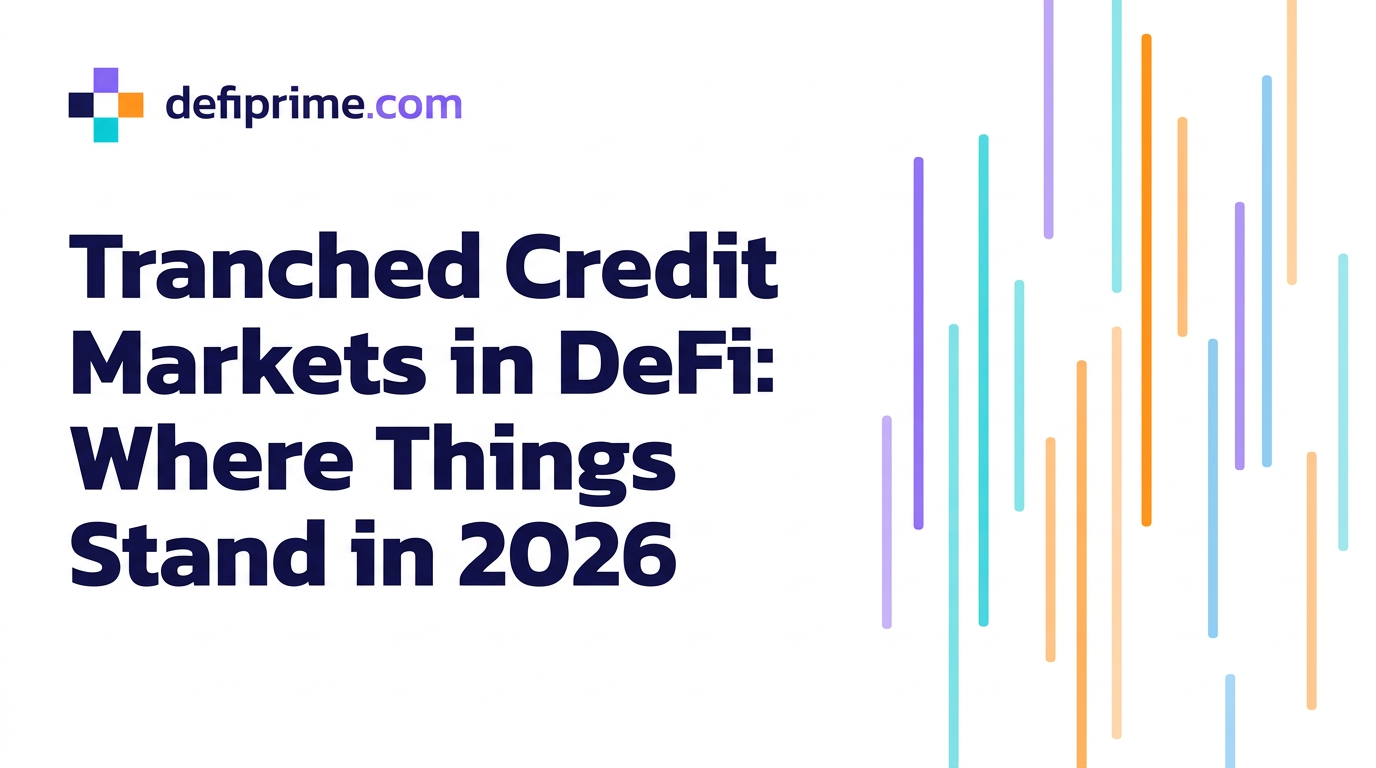
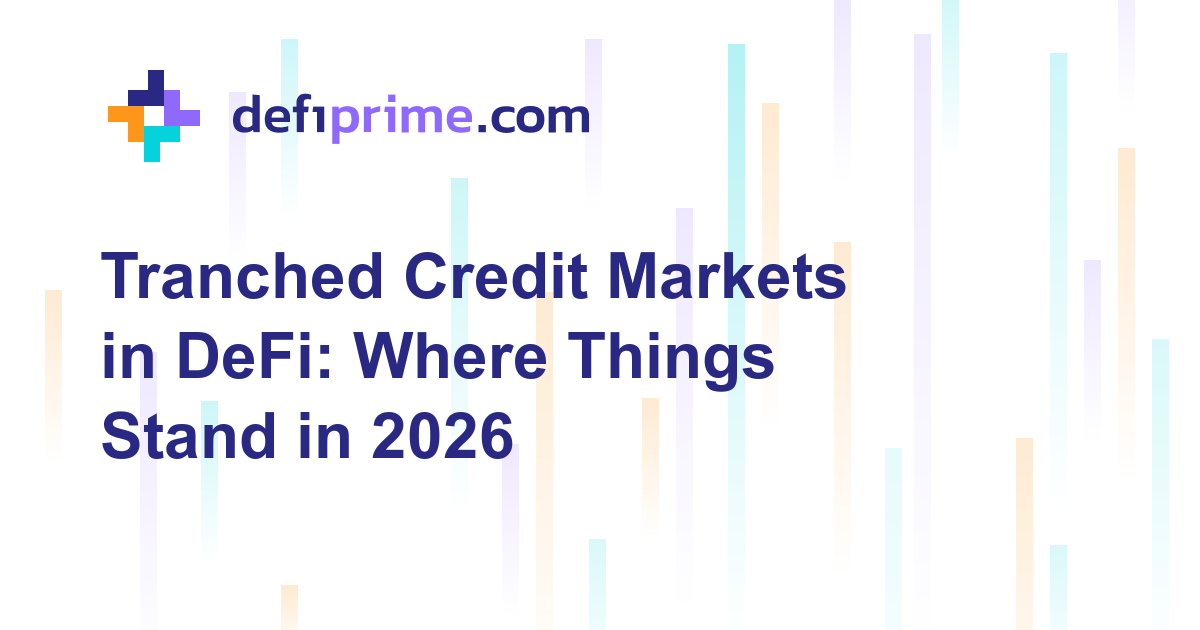
Regenerate OGP images for last 10 blog posts using standardized template
All images now use consistent positioning (+100+240), Arial Bold font,
and 1200x630 dimensions from ogp-template.png. Updated frontmatter
for posts with non-standard image filenames.

diff --git a/collections/_posts/2026-02-24-canton-vs-evm.md b/collections/_posts/2026-02-24-canton-vs-evm.md
@@ -7,7 +7,7 @@ h1title: "Canton Network vs. EVM-Compatible Blockchains: A Technical Reckoning"
 pagetitle: "Canton Network vs. EVM-Compatible Blockchains: A Technical Reckoning"
 metadescription: "A deep technical comparison of Canton Network and EVM-compatible blockchains. Explore execution models, privacy guarantees, trust assumptions, scalability, and where each platform excels for institutional and DeFi use cases."
 category: blog
-featured-image: /images/blog/cantonevm.png
+featured-image: /images/blog/canton-vs-evm-ogp.png
 intro: "The blockchain landscape has split more sharply than most architects acknowledge. The EVM ecosystem and Canton answer different questions—comparing them as if they were racing toward the same finish line misses the point."
 author: Defiprime
 tags: ["DeFi Guides", "Infrastructure"]

diff --git a/collections/_posts/2026-02-25-aave-mess-decentralized-governance.md b/collections/_posts/2026-02-25-aave-mess-decentralized-governance.md
@@ -7,7 +7,7 @@ h1title: "The Aave Mess: Who Actually Owns a Decentralized Protocol?"
 pagetitle: "The Aave Mess: Who Actually Owns a Decentralized Protocol?"
 metadescription: "Aave's governance crisis—swap fees, brand transfer, BGD's exit—exposes deeper questions about who really controls a decentralized protocol and whether DeFi governance is broken."
 category: blog
-featured-image: /images/blog/aave2025drama.png
+featured-image: /images/blog/aave-governance-ogp.png
 intro: "Aave had a rough winter. What started as a fight over swap fees turned into a full-blown war between the people who built the protocol and the people who theoretically own it."
 author: sawinyh
 tags: ["DeFi Guides", "Governance", "DAO"]

diff --git a/collections/_posts/2026-02-27-stablecoins-320-billion.md b/collections/_posts/2026-02-27-stablecoins-320-billion.md
@@ -7,7 +7,7 @@ h1title: "Stablecoins Hit $320 Billion. Here's What the Data Actually Shows."
 pagetitle: "Stablecoins Hit $320 Billion – What the Data Actually Shows in 2026"
 metadescription: "A data-driven look at the $320 billion stablecoin market in early 2026: market dominance, chain distribution, DeFi volumes, holder metrics, and what it means for global finance."
 category: blog
-featured-image: /images/blog/stables320.png
+featured-image: /images/blog/stables320-ogp.png
 intro: "In January 2026, stablecoin networks moved more than ten trillion dollars. A look at where the money is, how it moves, and why it matters."
 author: Defiprime
 tags: ["DeFi Guides", "Stablecoins"]
